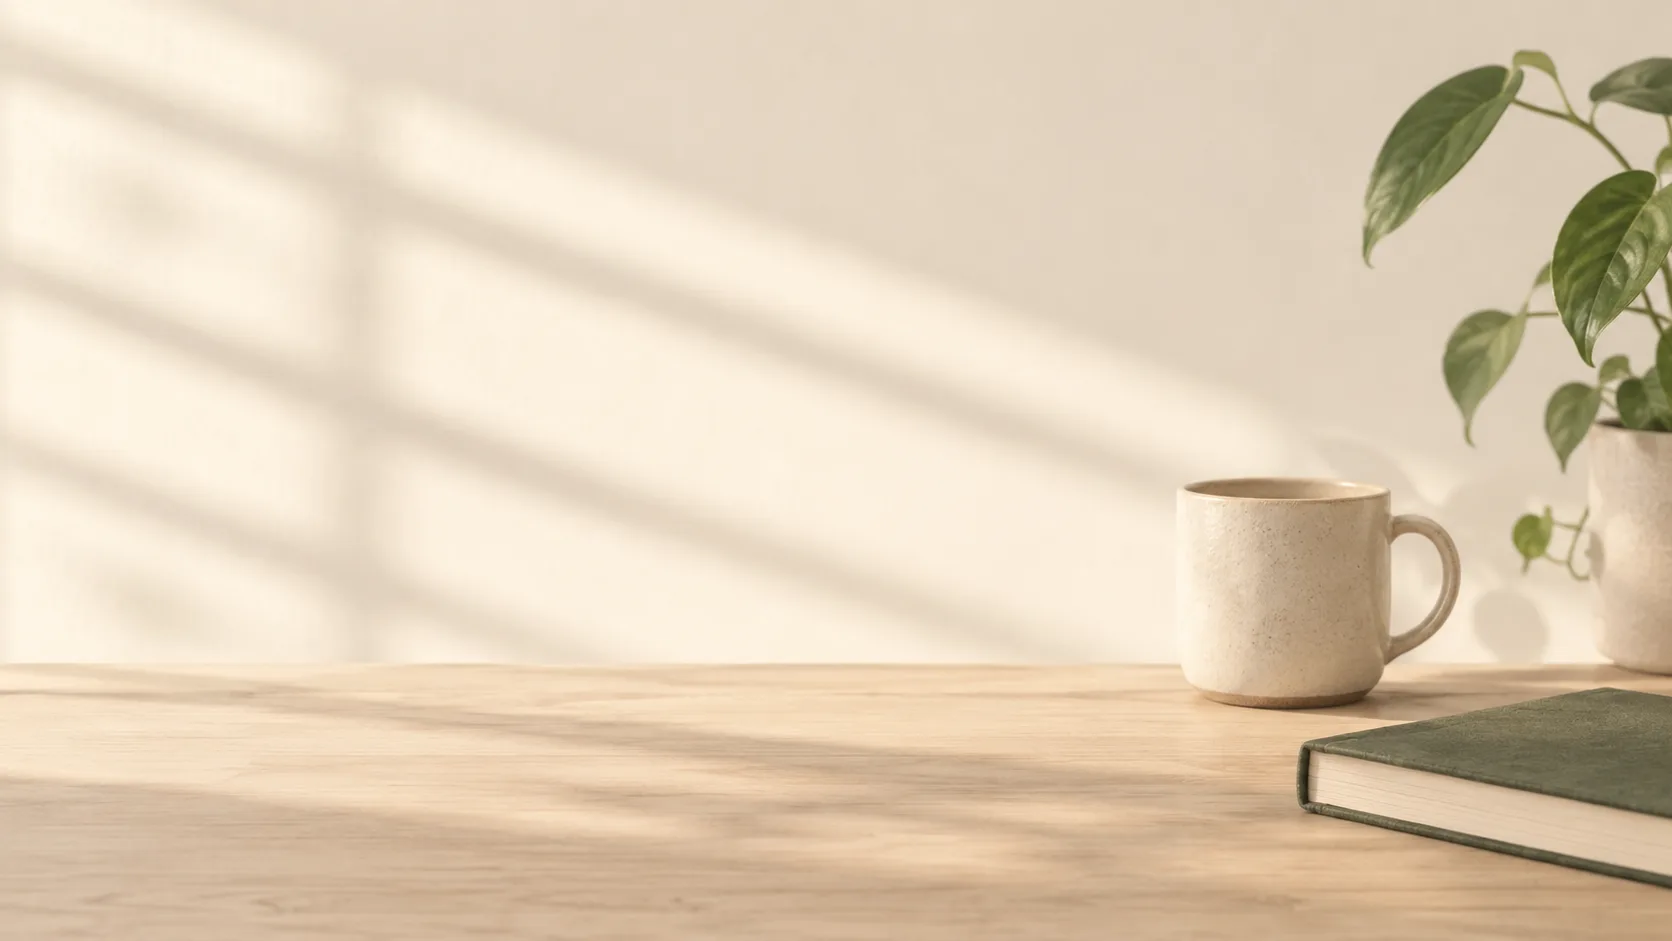
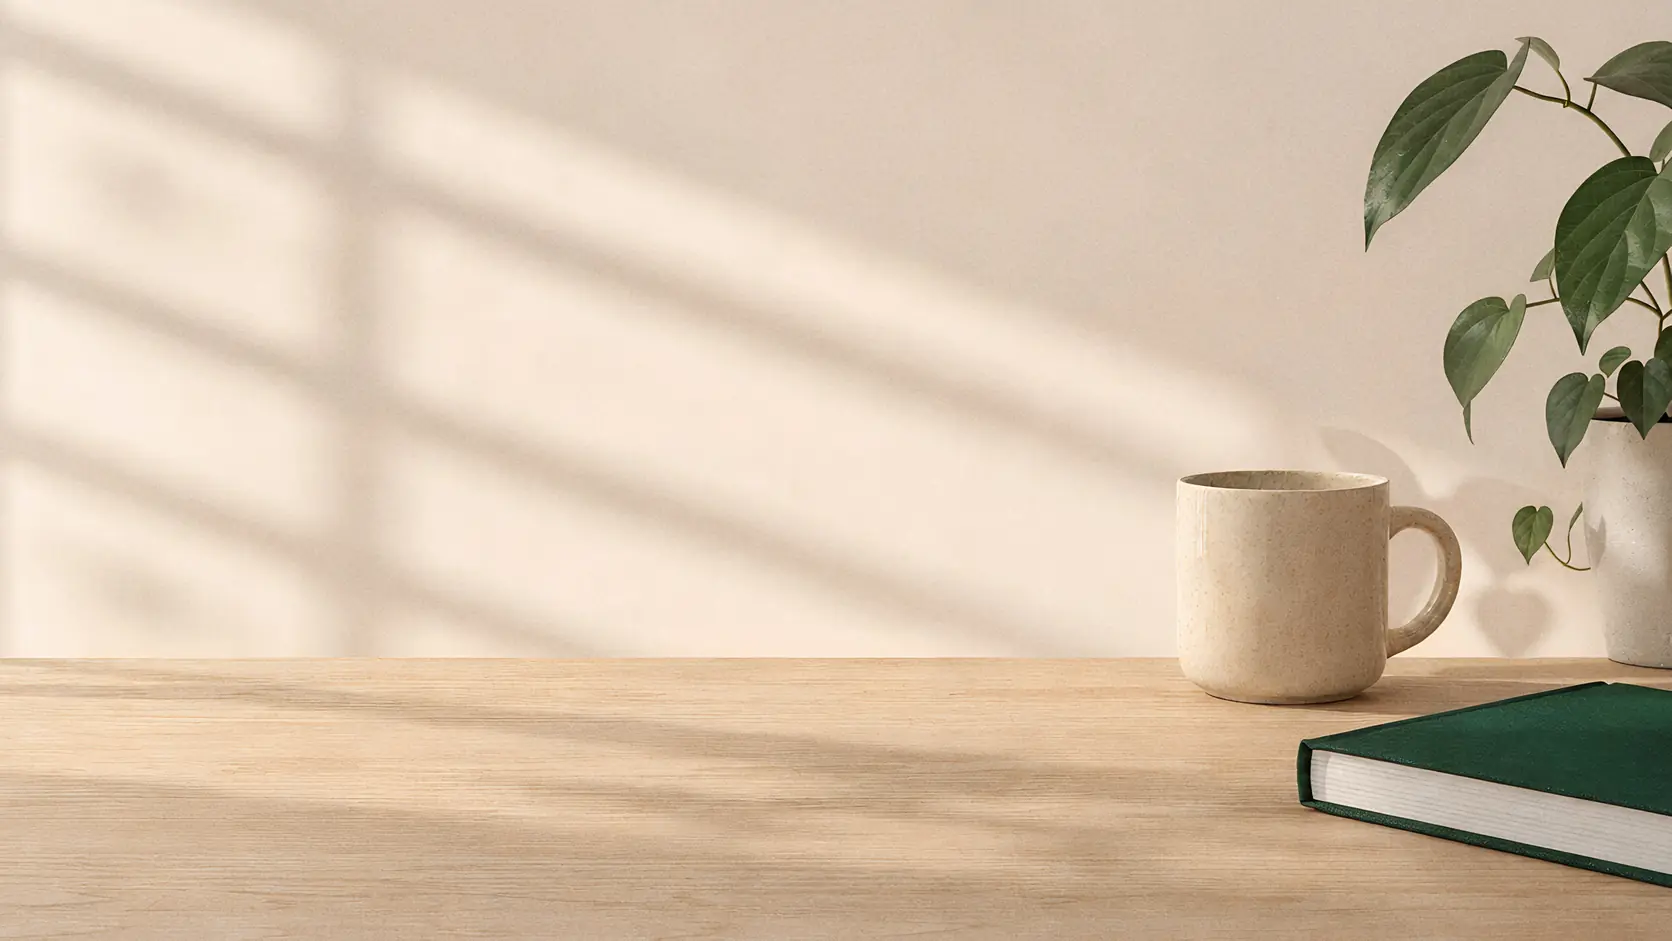
feat(welcome): the owner's new desk photo for the welcome page and recap stage
Resized to 1672 and 800 px, cropped from the top to the page's 1672/941
aspect, WebP q72. Visual baselines of the screens that show the photo
re-recorded (welcome, setup flows, new-day recap stage; 1280 and 390).

diff --git a/public/welcome/CREDITS.md b/public/welcome/CREDITS.md
@@ -1,9 +1,11 @@
 # Welcome page photo (kd#14, kd#226)
 
 `desk-1672.webp` and `desk-800.webp`: a desk in window light with a mug, a notebook and a plant, created by the
-project owner (kd#226, `kan-do-bg-desk-01`). The owner's own work: no third-party source, no attribution needed.
+project owner. The owner's own work: no third-party source, no attribution needed. Current version: the owner's new
+render of 2026-11-13 (4096 × 2341 source); before it `kan-do-bg-desk-01` (kd#226).
 
-Edit: re-encoded to WebP at 1672 px (the original width) and 800 px wide. No other change.
+Edit: resized to 1672 px and 800 px wide, cropped from the top to the page's 1672 / 941 aspect (15 px of plain wall at
+1672), re-encoded to WebP (quality 72). No other change.
 The files ship with the app (desktop CSP, ADR 012: no remote image hosts).
 
 Until kd#226 the photo was "blinds" by Pawel Czerwinski, https://unsplash.com/photos/TmxUTyL3pvg (Unsplash License).
